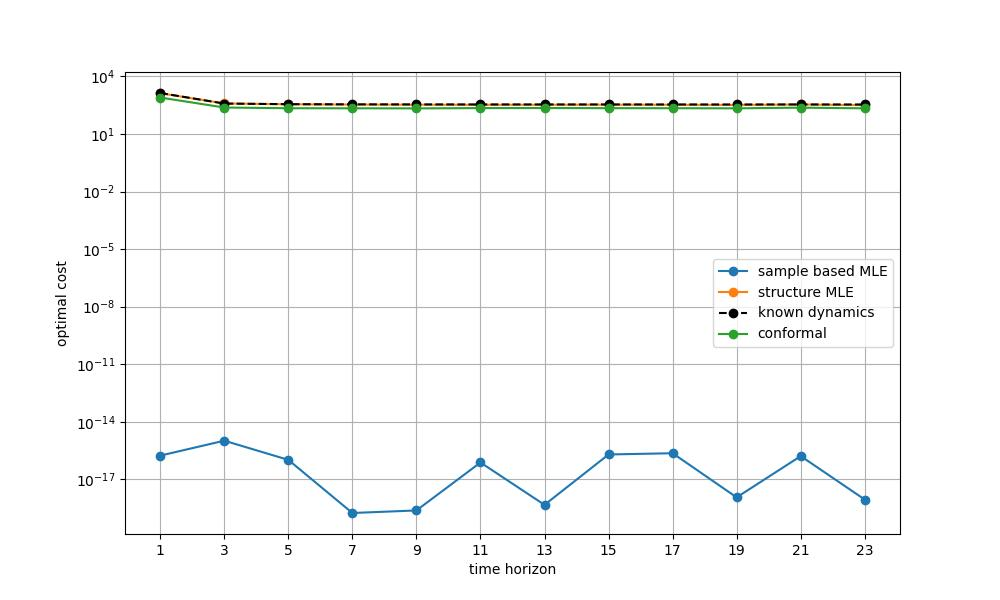
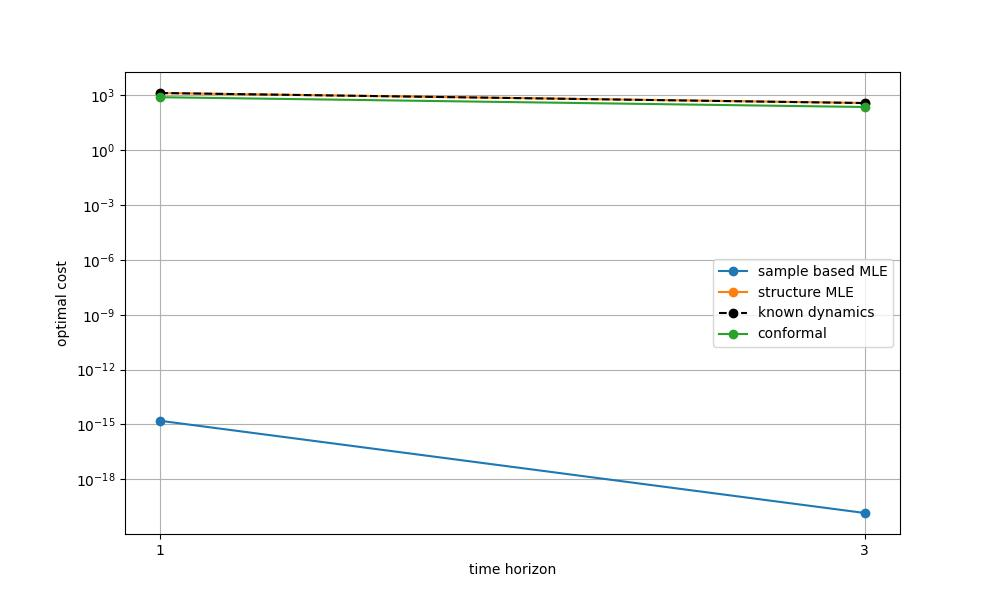
up

diff --git a/data/cp.py b/data/cp.py
@@ -13,17 +13,17 @@ import matplotlib.patches as patches
 
 n,m = 4,4
 xf = np.array([4.0, 5.0, 6.0, 7.0])
-T_list = range(1, 25, 2)
+T_list = range(1, 20, 2)
 sigma_1 = 0.2
 sigma_2 = 0.3
 sigma_0 = np.eye(n) * sigma_1**2
 x_0 =  np.random.multivariate_normal(np.zeros(n), sigma_0)
-delta = 0.3
+delta = 0.5
 Q = np.diag([2.0, 3.0, 4.0, 5.0])
 name = 'stable'
 epsilon = 2.4
 M = 100
-k_est = 10
+k_est = 1
 
 #to store optimal costs
 sampleu = []
@@ -82,7 +82,7 @@ def generate_nested_data(t, N_max, M_max, seed=0, U_fixed=None):
 
     for i in range(N_max):
         for j in range(M_max):
-            x_0 = rng.multivariate_normal(np.zeros(n), np.eye(n) * 0.2)
+            x_0 = rng.multivariate_normal(np.zeros(n), np.eye(n) * (0.2)**2)
             w = rng.multivariate_normal(np.zeros(n*t), sigmaw)
             all_xT_full[:, i, j] = np.linalg.matrix_power(A, t) @ x_0 + CT @ U_full[:, i] + NT @ w
 
@@ -364,6 +364,7 @@ for t in T_list:
     ratio2_runs = []
     ratio3_runs = []
     ratiok_runs = []
+    quant_runs = []
     A, B, CT = get_system(name, n, m, t, seed=0)
     print(t)
     Q_tilde = block_diag(*([Q] * t))
@@ -371,13 +372,12 @@ for t in T_list:
     NT = np.eye(n)
     for i in range(1, t):
         NT = np.hstack((NT, np.linalg.matrix_power(A, i)))
-
     sigmaw = np.eye(n*t) * sigma_2**2
     sigmaz = NT @ sigmaw @ NT.T + np.linalg.matrix_power(A, t) @ sigma_0 @ np.linalg.matrix_power(A, t).T
 
     #estimation
-    N = m*t +5
-    N_cal = 20
+    N = m*t +10
+    N_cal = 60
     for dataset in range(k_est):
         np.random.seed(dataset)
         U = np.random.randn(m*t, N) # input matrix
@@ -410,7 +410,7 @@ for t in T_list:
         CT_hat = X_bar @ U.T @ np.linalg.pinv(U @ U.T)
         sample_sigma = np.zeros((n, n))
         struct_sigma = np.zeros((n, n))
-
+        
         for i in range(N):
             for j in range(M):
                 diff = all_xT[:, i, j] - X_bar[:, i]
@@ -448,7 +448,7 @@ for t in T_list:
                 )
 
                 q = conformal_quantile(scores, delta)
-
+                quant_runs.append(q)
                 q_runs.append(q)
 
                 U_test = np.random.randn(m*t, N_test)
@@ -473,12 +473,12 @@ for t in T_list:
                 np.std(coverages)
         )
 
-            if delta == 0.30:
-                quant.append(np.mean(q_runs))
+            # if delta == 0.30:
+            #     quant.append(np.mean(q_runs))
 
             quantiles[t].append(np.mean(q_runs))
 
-        delta = 0.30
+        delta = 0.50
 
         scores = get_scores(
             U_cal,
@@ -504,8 +504,6 @@ for t in T_list:
         alpha2 = cp.Variable(m*t)
         alphak = cp.Variable(m*t)
         u = cp.Variable(m*t)
-        
-
         objective1 = cp.Minimize(cp.quad_form((U @ alpha1), Q_tilde))
         objective2 = cp.Minimize(cp.quad_form((alpha2), Q_tilde))
         objectivek = cp.Minimize(cp.quad_form((alphak), Q_tilde))
@@ -621,7 +619,7 @@ for t in T_list:
         struct_cost_runs.append(float(u2.T @ Q_tilde @ u2))
         known_cost_runs.append(float(uk.T @ Q_tilde @ uk))
         cp_cost_runs.append(float(u3.T @ Q_tilde @ u3))
-
+    quant.append(np.mean(quant_runs))
     sampleu.append(np.mean(sample_cost_runs))
     structu.append(np.mean(struct_cost_runs))
     originalu.append(np.mean(known_cost_runs))
@@ -707,8 +705,8 @@ plt.savefig('ratios_{}.jpeg'.format(M))
 plt.figure(figsize=(10,6))
 
 nominal = [1-d for d in delta_list]
-T_list = range(1, 25, 2)
-T_list_cov = range(1, 25, 2)
+T_list = range(1, 20, 2)
+T_list_cov = range(1, 20, 2)
 
 for t in T_list_cov:
 
@@ -854,7 +852,7 @@ for n in n_list:
 # Plot
 # -----------------------------
 plt.figure(figsize=(7,5))
-plt.plot(n_list, q_values, 'o-', linewidth=2, label = 'sigma = {}'.format(sigma))
+plt.plot(n_list, q_values, 'o-', linewidth=2)
 plt.xlabel(r"State dimension $n$", fontsize=13)
 plt.ylabel(r"$q_{1-\delta}$", fontsize=13)
 plt.grid(True)
